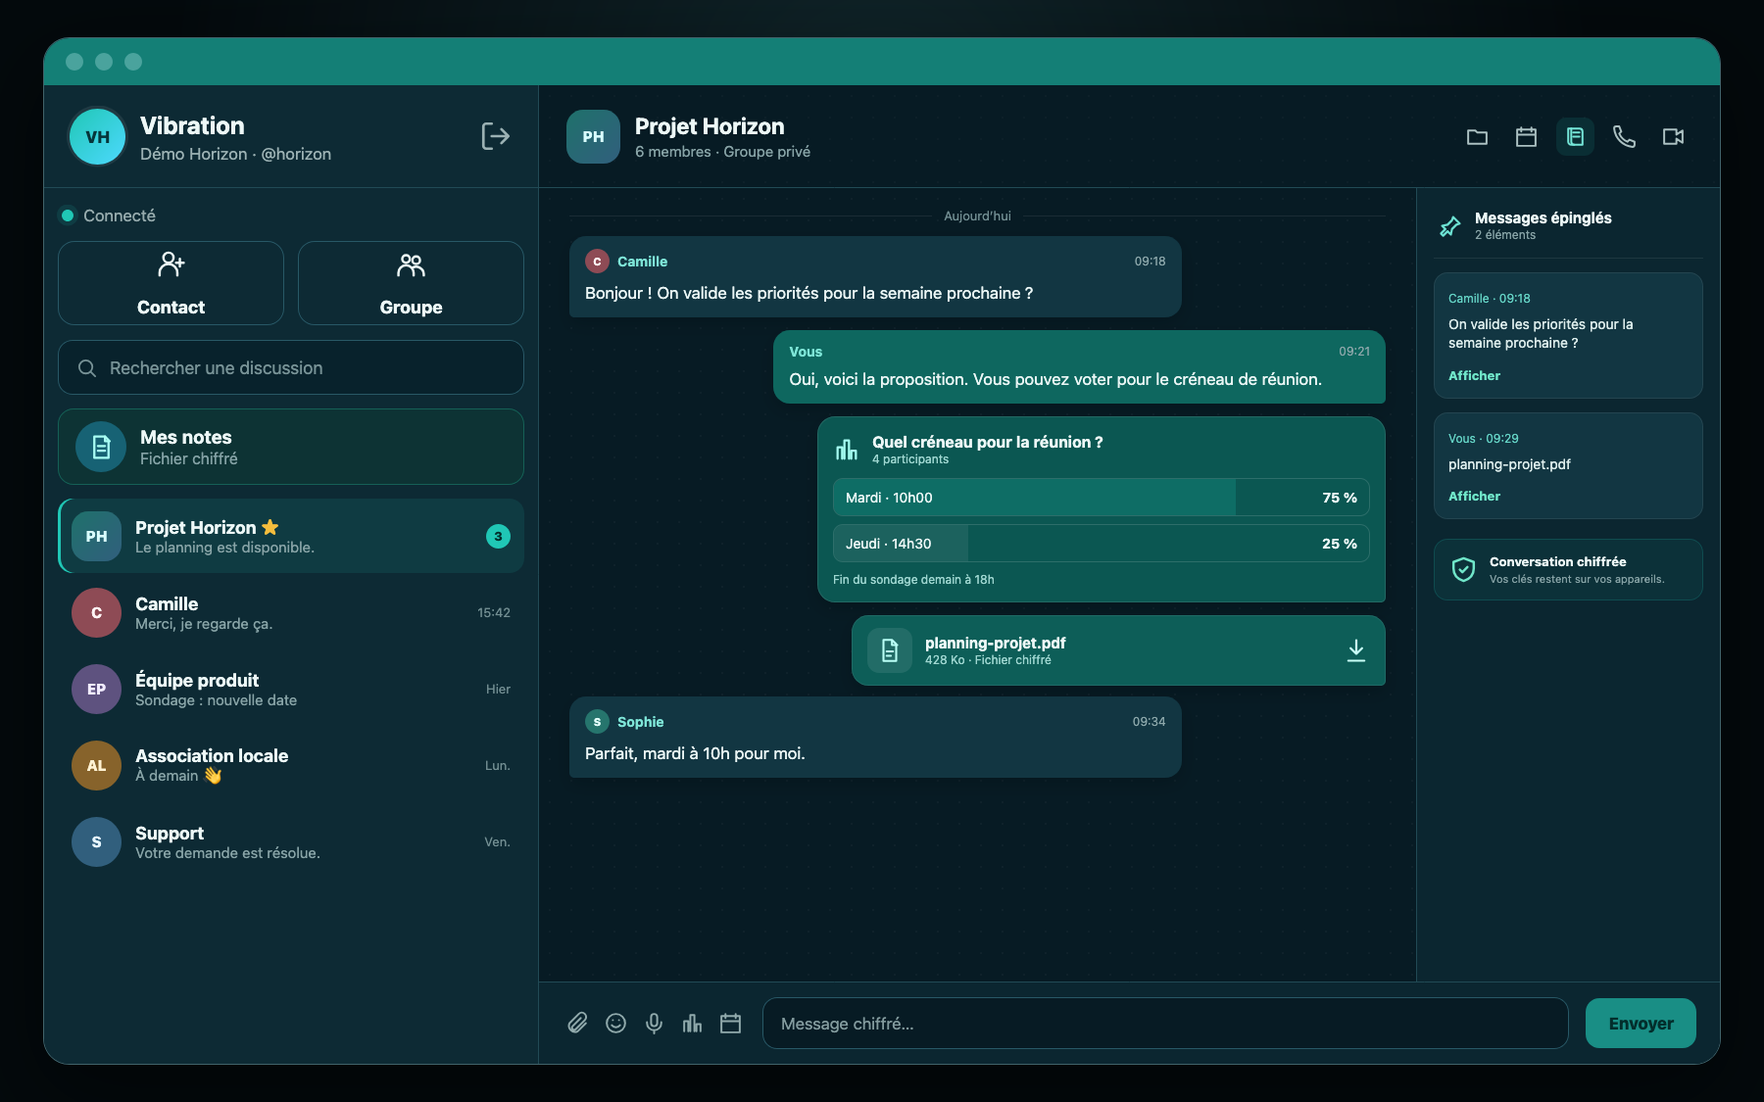
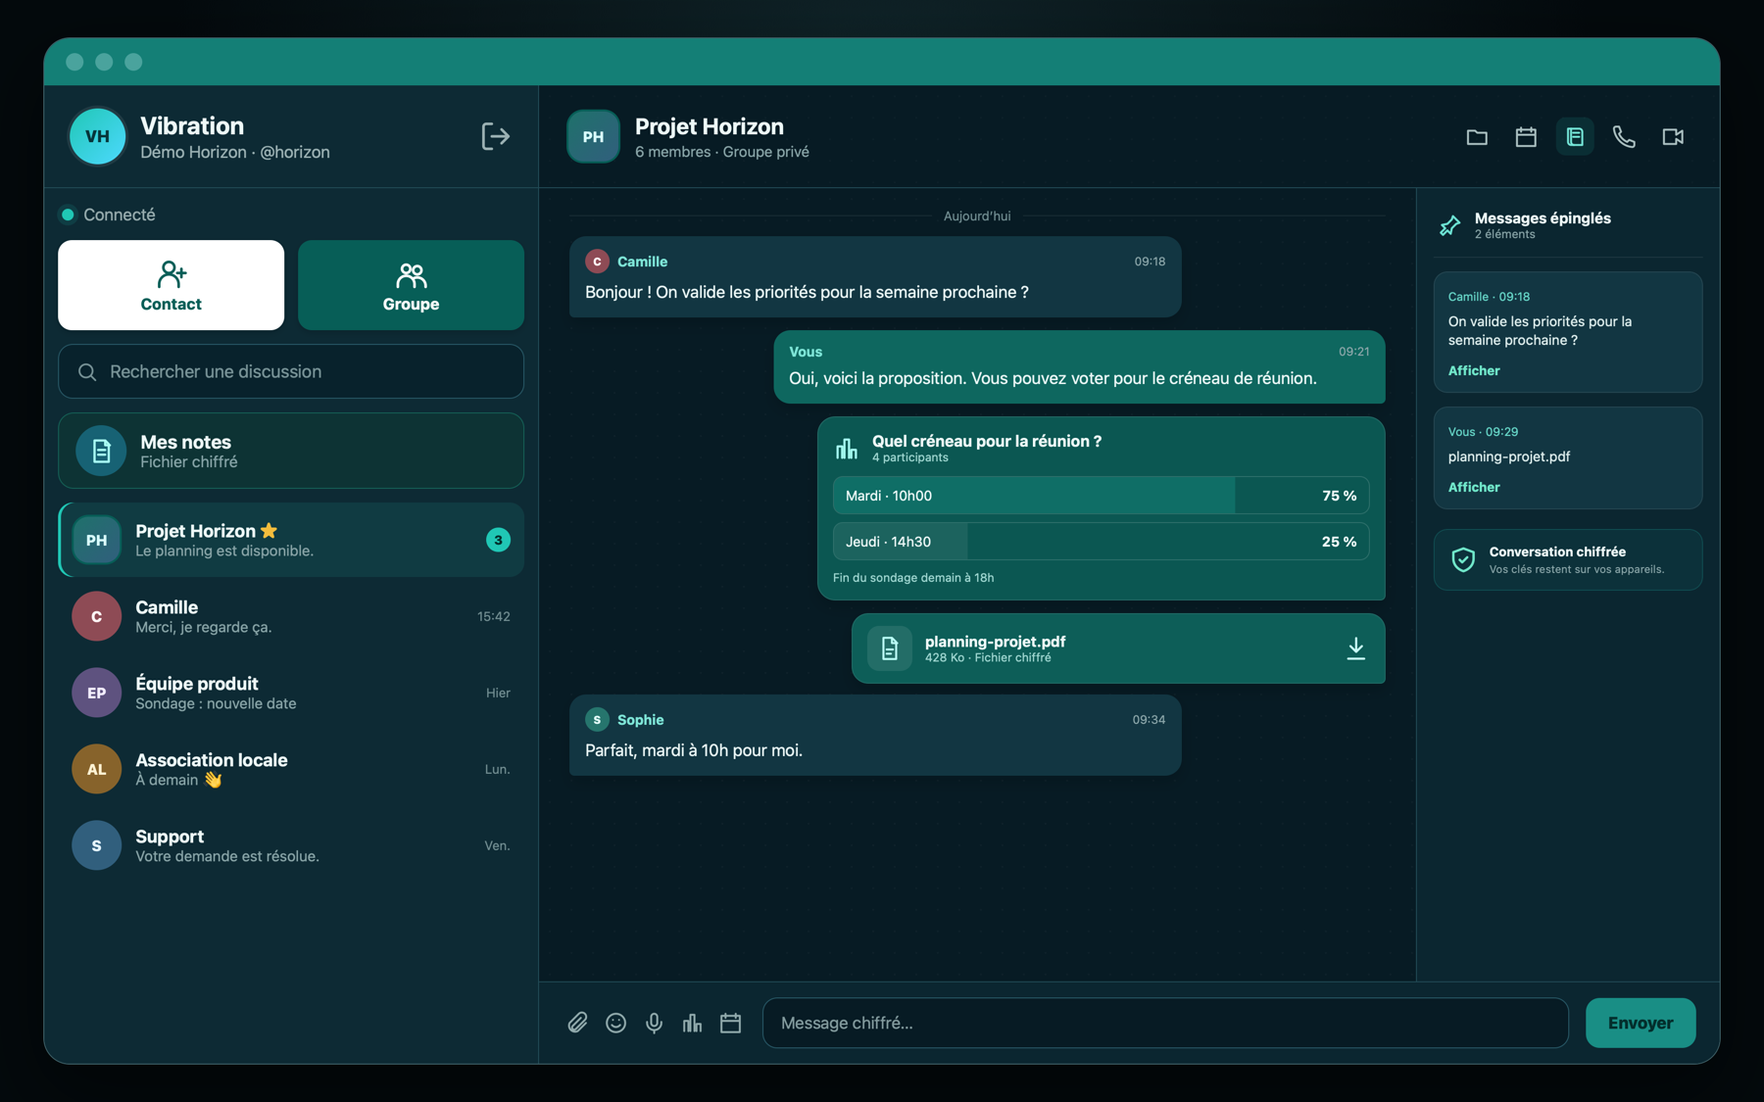
Publier Community 1.0.22

diff --git a/web/index.html b/web/index.html
@@ -6,7 +6,7 @@
   <meta name="apple-mobile-web-app-capable" content="yes">
   <meta name="apple-mobile-web-app-status-bar-style" content="black-translucent">
   <meta name="theme-color" content="#1b5260">
-  <meta name="vibration-build" content="message-link-green-v344">
+  <meta name="vibration-build" content="sidebar-actions-above-search-v356">
   <style>
     :root { --avatar-bg: #1b5260; --avatar-fg: #a9fff4; background-color: #1b5260; }
     html[data-theme="light"] { --avatar-bg: #c9e7e4; --avatar-fg: #075e57; background-color: #c9e7e4; }
@@ -21,7 +21,7 @@
   <link rel="manifest" href="/manifest.json?v=desktop-titlebar-v252">
   <link rel="icon" href="/icons/icon-192.png">
   <link rel="apple-touch-icon" href="/icons/icon-192.png">
-  <link rel="stylesheet" href="/css/style.css?v=message-link-green-v344">
+  <link rel="stylesheet" href="/css/style.css?v=sidebar-actions-above-search-v356">
 </head>
 <body>
   <div class="desktop-titlebar-drag-region" data-tauri-drag-region aria-hidden="true"></div>
@@ -47,18 +47,18 @@
         <svg class="sidebar-action-icon" viewBox="0 0 24 24" aria-hidden="true"><path d="M12 3 19 6v5.5c0 4.5-2.9 7.6-7 9.5-4.1-1.9-7-5-7-9.5V6Z"></path><path d="m9 12 2 2 4-4"></path></svg>
         <span class="admin-link-label">Administration</span>
       </a>
-      <div class="actions">
-        <button id="contact-button" class="outline" type="button">
-          <svg class="sidebar-action-icon" viewBox="0 0 24 24" aria-hidden="true"><circle cx="10" cy="8" r="3.5"></circle><path d="M3.5 20v-1.5a6.5 6.5 0 0 1 13 0V20M18 8v6M15 11h6"></path></svg>
-          <span>Contact</span>
-        </button>
-        <button id="group-button" class="outline" type="button">
-          <svg class="sidebar-action-icon" viewBox="0 0 24 24" aria-hidden="true"><circle cx="9" cy="8" r="3"></circle><circle cx="16.5" cy="9" r="2.5"></circle><path d="M3 20v-1.5A5.5 5.5 0 0 1 8.5 13h1A5.5 5.5 0 0 1 15 18.5V20M14 14.5a5 5 0 0 1 7 4.5v1"></path></svg>
-          <span>Groupe</span>
-        </button>
-      </div>
       <div id="conversation-list-loading" class="conversation-list-loading" role="status">Chargement des discussions…</div>
       <div id="conversation-lists" aria-busy="true" hidden>
+        <div class="actions" aria-label="Créer une discussion">
+          <button id="contact-button" class="outline" type="button">
+            <svg class="sidebar-action-icon" viewBox="0 0 24 24" aria-hidden="true"><circle cx="10" cy="8" r="3.5"></circle><path d="M3.5 20v-1.5a6.5 6.5 0 0 1 13 0V20M18 8v6M15 11h6"></path></svg>
+            <span>Contact</span>
+          </button>
+          <button id="group-button" class="outline" type="button">
+            <svg class="sidebar-action-icon" viewBox="0 0 24 24" aria-hidden="true"><circle cx="9" cy="8" r="3"></circle><circle cx="16.5" cy="9" r="2.5"></circle><path d="M3 20v-1.5A5.5 5.5 0 0 1 8.5 13h1A5.5 5.5 0 0 1 15 18.5V20M14 14.5a5 5 0 0 1 7 4.5v1"></path></svg>
+            <span>Groupe</span>
+          </button>
+        </div>
         <div class="conversation-search">
           <svg viewBox="0 0 24 24" aria-hidden="true"><circle cx="11" cy="11" r="7"></circle><path d="m16 16 5 5"></path></svg>
           <input id="conversation-search" type="search" autocomplete="off" autocapitalize="none" spellcheck="false"
@@ -402,6 +402,14 @@
       <label>Nom affiché<input id="profile-display-name" maxlength="80" required autocomplete="name"></label>
       <label>Description<textarea id="profile-description" rows="3" maxlength="280" placeholder="Quelques mots à propos de vous"></textarea></label>
       <label>Instance serveur<input id="profile-instance-url" type="url" required autocomplete="url"></label>
+      <section class="profile-password-section">
+        <h4 id="profile-password-title">Modifier le mot de passe</h4>
+        <fieldset class="profile-password" aria-labelledby="profile-password-title">
+          <label>Mot de passe actuel<input id="profile-current-password" type="password" autocomplete="current-password"><small>Requis pour modifier le nom d’utilisateur ou le mot de passe.</small></label>
+          <label>Nouveau mot de passe<input id="profile-new-password" type="password" minlength="8" maxlength="256" autocomplete="new-password"></label>
+          <label>Confirmer le nouveau mot de passe<input id="profile-confirm-password" type="password" minlength="8" maxlength="256" autocomplete="new-password"></label>
+        </fieldset>
+      </section>
       <section class="profile-discovery" aria-labelledby="profile-discovery-title">
         <h4 id="profile-discovery-title">Confidentialité du profil</h4>
         <label class="profile-visibility-toggle">
@@ -416,12 +424,6 @@
         </div>
         <small id="profile-discovery-status" aria-live="polite"></small>
       </section>
-      <fieldset class="profile-password">
-        <legend>Modifier le mot de passe</legend>
-        <label>Mot de passe actuel<input id="profile-current-password" type="password" autocomplete="current-password"><small>Requis pour modifier le nom d’utilisateur ou le mot de passe.</small></label>
-        <label>Nouveau mot de passe<input id="profile-new-password" type="password" minlength="8" maxlength="256" autocomplete="new-password"></label>
-        <label>Confirmer le nouveau mot de passe<input id="profile-confirm-password" type="password" minlength="8" maxlength="256" autocomplete="new-password"></label>
-      </fieldset>
       <p id="profile-error" class="error" role="alert"></p>
       <button id="profile-save" type="submit">Enregistrer le profil</button>
       <label class="profile-theme-label"><strong>Thème</strong><select id="profile-theme"><option value="auto">Automatique</option><option value="light">Clair</option><option value="dark">Sombre</option></select></label>
@@ -585,6 +587,6 @@
   <div id="toasts" aria-live="polite"></div>
   <script src="/vendor/hash-wasm/argon2.umd.min.js?v=identity-v2"></script>
   <script src="/vendor/jsqr/jsQR.js?v=qr-scanner-v296"></script>
-  <script type="module" src="/js/app.js?v=message-link-green-v344"></script>
+  <script type="module" src="/js/app.js?v=sidebar-actions-above-search-v356"></script>
 </body>
 </html>

diff --git a/web/js/app.js b/web/js/app.js
@@ -1,4 +1,4 @@
-import { api, clearSessionToken, getInstanceURL, isDesktopClient, normalizeInstanceURL, setInstanceURL } from "./api.js?v=message-link-green-v344";
+import { api, clearSessionToken, getInstanceURL, isDesktopClient, normalizeInstanceURL, setInstanceURL } from "./api.js?v=sidebar-actions-above-search-v356";
 import {
   base64ToBytes,
   bytesToBase64,
@@ -19,7 +19,7 @@ import {
   verifyMessagePayload,
   unwrapGroupKey,
   wrapGroupKey,
-} from "./crypto.js?v=message-link-green-v344";
+} from "./crypto.js?v=sidebar-actions-above-search-v356";
 import {
   forgetRememberedIdentity,
 	forgetTrustedDeviceCredential,
@@ -40,8 +40,8 @@ import {
   showLocalTestNotification,
   syncBrowserSubscription,
   testNotification,
-} from "./notifications.js?v=message-link-green-v344";
-import { ChatSocket } from "./websocket.js?v=message-link-green-v344";
+} from "./notifications.js?v=sidebar-actions-above-search-v356";
+import { ChatSocket } from "./websocket.js?v=sidebar-actions-above-search-v356";
 import { actionIcon, bindSwipeActions, formatMessageTime, frenchErrorMessage, materialFileIcon, renderMessage, setBusy, toast } from "./ui.js?v=message-links-v341";
 import { locale, t } from "./i18n.js?v=conversation-search-v326";
 import { runKeyedTask } from "./keyed-task-guard.js?v=ios17-pdf-v199";
@@ -71,7 +71,7 @@ import {
   sameCallIdentity,
   shouldOfferAfterAccept,
   shouldOfferInGroup,
-} from "./call-negotiation.js?v=message-link-green-v344";
+} from "./call-negotiation.js?v=sidebar-actions-above-search-v356";
 import { openConversationCache, sameMessageSnapshots } from "./conversation-cache.js?v=cache-v3";
 import { decodeQRImageData, sessionApprovalTokenFromQR } from "./qr-scanner.js?v=qr-scanner-v296";
 import {
@@ -100,7 +100,7 @@ const GLOBAL_FILES_PAGE_SIZE = 40;
 const GLOBAL_FILES_SCROLL_THRESHOLD_PX = 240;
 const GLOBAL_FILES_BACKGROUND_CONCURRENCY = 2;
 const WHITEBOARD_MESSAGE_TYPE = "whiteboard";
-const APP_BUILD = "message-link-green-v344";
+const APP_BUILD = "sidebar-actions-above-search-v356";
 const ADMIN_RETURN_HISTORY_KEY = "vibration.admin_return_history";
 const ADMIN_BOOTSTRAP_CACHE_KEY = "vibration.admin_bootstrap";
 const ADMIN_BOOTSTRAP_MAX_AGE_MS = 60 * 1000;
@@ -1081,7 +1081,16 @@ function bindUI() {
     event.preventDefault();
     document.querySelector("#profile-session-approve-code").click();
   });
-  document.querySelector("#conversation-info-close").onclick = () => elements.conversationInfoDialog.close();
+  document.querySelector("#conversation-info-close").onclick = (event) => {
+    const closedWithPointer = event.detail > 0;
+    elements.conversationInfoDialog.close();
+    if (!closedWithPointer) return;
+    requestAnimationFrame(() => {
+      if (document.activeElement === elements.chatAvatar || document.activeElement === elements.chatIdentity) {
+        document.activeElement.blur();
+      }
+    });
+  };
   elements.conversationInfoVerify.onclick = verifyCurrentConversationIdentity;
   elements.chatAvatar.onclick = () => {
     openCurrentConversationInfo().catch((error) => {
@@ -1459,6 +1468,7 @@ function renderMobileNavigationAvatar(display = null, conversation = null) {
   const showPersonalNote = Boolean(display && conversation?.is_personal);
   button.classList.toggle("has-conversation-avatar", Boolean(display));
   button.classList.toggle("personal-note-avatar", showPersonalNote);
+  button.classList.toggle("group-conversation-avatar", Boolean(display && conversation?.type === "group"));
   if (!display) {
     image.onerror = null;
     image.hidden = true;
@@ -1821,6 +1831,7 @@ async function openCurrentConversationInfo() {
   elements.conversationInfoMembersSection.hidden = !isGroup;
   elements.conversationInfoMembersCount.textContent = "0";
   elements.conversationInfoMembers.replaceChildren();
+  elements.conversationInfoAvatar.classList.toggle("group-conversation-avatar", isGroup);
   replaceAvatarContent(
     elements.conversationInfoAvatar,
     display.avatar,
@@ -1839,6 +1850,7 @@ function renderConversationHeader(conversation, display) {
   );
   elements.chatAvatar.hidden = false;
   elements.chatAvatar.classList.toggle("personal-note-avatar", Boolean(conversation.is_personal));
+  elements.chatAvatar.classList.toggle("group-conversation-avatar", conversation.type === "group");
   if (conversation.is_personal) {
     renderPersonalNoteIcon(elements.chatAvatar);
   } else {
@@ -3542,7 +3554,7 @@ async function renderConversations({ freshMembers = false } = {}) {
       callState?.incoming ? "call-incoming" : "",
     ].filter(Boolean).join(" ");
     const avatar = document.createElement("span");
-    avatar.className = "avatar";
+    avatar.className = conversation.type === "group" ? "avatar group-conversation-avatar" : "avatar";
     avatar.textContent = conversation.type === "group" ? "G" : "@";
     const copy = document.createElement("span");
     const titleRow = document.createElement("span");
@@ -3662,7 +3674,7 @@ function renderGroupInvitation(conversation, display = null) {
   row.className = "contact-request-row";
   row.dataset.conversationSearch = [display?.title, display?.description, t("Invitation de groupe")].filter(Boolean).join(" ");
   const avatar = document.createElement("span");
-  avatar.className = "avatar";
+  avatar.className = "avatar group-conversation-avatar";
   avatar.textContent = "G";
   const copy = document.createElement("span");
   const title = document.createElement("strong");

diff --git a/web/css/style.css b/web/css/style.css
@@ -11,6 +11,7 @@
   --shadow: 0 20px 55px rgb(0 0 0 / .28);
   --avatar-bg: #1b5260;
   --avatar-fg: #a9fff4;
+  --group-action: #075e57;
   --tauri-titlebar-height: 0px;
   color-scheme: dark;
   font-family: Inter, ui-sans-serif, system-ui, -apple-system, BlinkMacSystemFont, "Segoe UI", sans-serif;
@@ -188,9 +189,16 @@ html.ios-pwa-splash-positioned #startup-splash svg { visibility: visible; }
 .admin-link-label { overflow: hidden; text-overflow: ellipsis; white-space: nowrap; }
 #ws-dot { width: .55rem; height: .55rem; border-radius: 50%; background: #ef6464; box-shadow: 0 0 0 3px rgb(239 100 100 / .12); }
 #ws-dot.online { background: var(--accent); box-shadow: 0 0 0 3px rgb(32 199 181 / .12); }
-.actions { display: grid; grid-template-columns: minmax(0, 1fr) minmax(0, 1fr); gap: .6rem; padding: 0 .6rem .75rem; }
-.admin-link[hidden] + .actions { padding-top: .5rem; }
-.actions button { min-width: 0; min-height: 4.8rem; display: flex; flex-direction: column; align-items: center; justify-content: center; gap: .35rem; padding: .65rem .45rem; }
+.actions { display: grid; grid-template-columns: minmax(0, 1fr) minmax(0, 1fr); flex: 0 0 auto; gap: .6rem; padding: 0 .6rem .75rem; }
+.actions button { min-width: 0; min-height: 4.1rem; display: flex; flex-direction: column; align-items: center; justify-content: center; gap: .2rem; padding: .4rem .65rem; }
+.actions #contact-button,
+.actions #group-button {
+  border: 0;
+  box-shadow: 0 .16rem .45rem rgb(3 47 44 / .12);
+}
+.actions #contact-button { background: #ffffff; color: var(--group-action); }
+.actions #group-button { background: var(--group-action); color: #ffffff; }
+.actions .sidebar-action-icon { width: 1.7rem; height: 1.7rem; }
 .sidebar-action-icon { width: 1.7rem; height: 1.7rem; flex: 0 0 auto; fill: none; stroke: currentColor; stroke-width: 1.8; stroke-linecap: round; stroke-linejoin: round; }
 #conversation-lists { min-height: 0; display: flex; flex: 1; flex-direction: column; }
 .conversation-list-loading { display: grid; flex: 1; place-items: center; min-height: 0; padding: 2rem 1rem; color: var(--muted); text-align: center; }
@@ -430,7 +438,7 @@ html.ios-pwa-splash-positioned #startup-splash svg { visibility: visible; }
 .voice-draft-status { color: var(--muted); font-size: .82rem; white-space: nowrap; }
 .voice-draft audio { width: 100%; min-width: 0; height: 34px; }
 .voice-draft button { width: 2rem; height: 2rem; padding: 0; border-radius: 50%; background: transparent; color: var(--text); font-size: 1.2rem; }
-#message-input { min-height: 44px; max-height: 140px; resize: vertical; }
+#message-input { height: 44px; min-height: 44px; max-height: 140px; resize: vertical; }
 .composer-tools { position: relative; display: flex; gap: .25rem; }
 .file-picker { display: grid; place-items: center; width: 44px; height: 44px; cursor: pointer; font-size: 1.35rem; }
 .composer-tool-button { width: 44px; height: 44px; padding: 0; background: transparent; color: var(--text); font-size: 1.35rem; }
@@ -612,7 +620,9 @@ dialog h3, dialog h4 { line-height: 1.25; }
 .picker-row.check input[type="checkbox"],
 .group-member-check input[type="checkbox"] { appearance: auto; width: 1.25rem; height: 1.25rem; margin: 0; padding: 0; accent-color: var(--accent); cursor: pointer; }
 fieldset { min-width: 0; border: 1px solid var(--line); border-radius: .8rem; }
-.profile-password { display: grid; gap: .8rem; }
+.profile-password-section { display: grid; gap: .4rem; }
+.profile-password-section h4 { margin: 0; color: var(--muted); font-size: .9rem; font-weight: 400; }
+.profile-password { display: grid; gap: .8rem; margin: 0; padding: .8rem; }
 .profile-discovery { display: grid; gap: .65rem; padding: .8rem; border: 1px solid rgb(32 199 181 / .24); border-radius: .8rem; background: rgb(32 199 181 / .06); }
 .profile-discovery h4 { margin: 0; }
 .profile-visibility-toggle { display: grid; grid-template-columns: auto minmax(0, 1fr); align-items: start; gap: .7rem; cursor: pointer; }
@@ -636,6 +646,10 @@ fieldset { min-width: 0; border: 1px solid var(--line); border-radius: .8rem; }
 .conversation-info-hero strong { overflow-wrap: anywhere; font-size: 1.1rem; }
 .conversation-info-avatar { display: grid; place-items: center; width: 5.5rem; height: 5.5rem; overflow: hidden; border: 2px solid var(--line); border-radius: 50%; background: var(--avatar-bg); color: var(--avatar-fg); font-size: 1.7rem; font-weight: 800; }
 .conversation-info-avatar img { display: block; width: 100%; height: 100%; border-radius: inherit; object-fit: cover; }
+.avatar.group-conversation-avatar,
+.chat-conversation-avatar.group-conversation-avatar,
+.brand-logo-button.has-conversation-avatar.group-conversation-avatar,
+.conversation-info-avatar.group-conversation-avatar { border: 2px solid var(--group-action); }
 .conversation-info-details { display: grid; gap: 0; margin: 0; overflow: hidden; border: 1px solid var(--line); border-radius: .9rem; }
 .conversation-info-details > div { display: grid; grid-template-columns: minmax(8rem, .7fr) minmax(0, 1.3fr); gap: .8rem; padding: .8rem .9rem; }
 .conversation-info-details > div + div { border-top: 1px solid var(--line); }

diff --git a/web/sw.js b/web/sw.js
@@ -1,8 +1,8 @@
-const CACHE = "chat-pwa-go-v344";
+const CACHE = "chat-pwa-go-v356";
 const SHELL = [
-  "/", "/index.html", "/login.html", "/link-device.html", "/share.html", "/css/style.css?v=message-link-green-v344",
-  "/js/app.js?v=message-link-green-v344", "/js/call-negotiation.js?v=message-link-green-v344", "/js/api.js?v=message-link-green-v344", "/js/crypto.js?v=message-link-green-v344", "/js/websocket.js?v=message-link-green-v344", "/js/keyed-task-guard.js?v=ios17-pdf-v199", "/js/theme.js?v=calendar-toolbar-grid-v311",
-  "/js/notifications.js?v=message-link-green-v344", "/js/device-vault.js?v=trusted-device-v300", "/js/identity-trust.js?v=passphrase-strength-v276", "/js/i18n.js?v=conversation-search-v326", "/js/ui.js?v=message-links-v341", "/js/message-links.js?v=message-links-v341", "/js/share.js?v=conversation-search-v326", "/js/login.js?v=calendar-toolbar-grid-v311", "/js/link-device.js?v=ios-resume-v297", "/js/qr-scanner.js?v=qr-scanner-v296", "/manifest.json?v=desktop-titlebar-v252",
+  "/", "/index.html", "/login.html", "/link-device.html", "/share.html", "/css/style.css?v=sidebar-actions-above-search-v356",
+  "/js/app.js?v=sidebar-actions-above-search-v356", "/js/call-negotiation.js?v=sidebar-actions-above-search-v356", "/js/api.js?v=sidebar-actions-above-search-v356", "/js/crypto.js?v=sidebar-actions-above-search-v356", "/js/websocket.js?v=sidebar-actions-above-search-v356", "/js/keyed-task-guard.js?v=ios17-pdf-v199", "/js/theme.js?v=calendar-toolbar-grid-v311",
+  "/js/notifications.js?v=sidebar-actions-above-search-v356", "/js/device-vault.js?v=trusted-device-v300", "/js/identity-trust.js?v=passphrase-strength-v276", "/js/i18n.js?v=conversation-search-v326", "/js/ui.js?v=message-links-v341", "/js/message-links.js?v=message-links-v341", "/js/share.js?v=conversation-search-v326", "/js/login.js?v=calendar-toolbar-grid-v311", "/js/link-device.js?v=ios-resume-v297", "/js/qr-scanner.js?v=qr-scanner-v296", "/manifest.json?v=desktop-titlebar-v252",
   "/vendor/hash-wasm/argon2.umd.min.js?v=identity-v2",
   "/vendor/jsqr/jsQR.js?v=qr-scanner-v296",
   "/js/pdf-preview-compat.js?v=ios17-pdf-v199",

diff --git a/web/js/notifications.js b/web/js/notifications.js
@@ -25,7 +25,7 @@ function browserPushSupported() {
 export async function registerServiceWorker() {
   if (!("serviceWorker" in navigator)) return null;
   if (!["http:", "https:"].includes(location.protocol)) return null;
-  const registration = await navigator.serviceWorker.register("/sw.js?v=message-link-green-v344");
+  const registration = await navigator.serviceWorker.register("/sw.js?v=sidebar-actions-above-search-v356");
   // Demande immédiatement au navigateur de vérifier le nouveau shell PWA.
   // Sans cela, certains clients conservent plusieurs heures l'ancien app.js,
   // où le bouton de sondage n'est pas encore câblé.

diff --git a/web/js/link-device.js b/web/js/link-device.js
@@ -1,4 +1,4 @@
-import { api } from "./api.js?v=message-link-green-v344";
+import { api } from "./api.js?v=sidebar-actions-above-search-v356";
 import { locale, t } from "./i18n.js?v=conversation-search-v326";
 import { frenchErrorMessage, setBusy } from "./ui.js?v=message-links-v341";
 

diff --git a/web/js/websocket.js b/web/js/websocket.js
@@ -1,4 +1,4 @@
-import { websocketProtocols, websocketURL } from "./api.js?v=message-link-green-v344";
+import { websocketProtocols, websocketURL } from "./api.js?v=sidebar-actions-above-search-v356";
 
 export class ChatSocket extends EventTarget {
   constructor() {

diff --git a/README.md b/README.md
@@ -6,7 +6,7 @@ Application de messagerie web installable, responsive et chiffrée côté naviga
   <img src="docs/interface-community.png" alt="Interface fictive de Vibration Community avec discussions de démonstration, sondage, fichier et messages épinglés" width="900">
 </p>
 
-<p align="center"><strong>Vibration Community 1.0.21</strong> · Messagerie chiffrée auto-hébergeable · Web, mobile et PWA</p>
+<p align="center"><strong>Vibration Community 1.0.22</strong> · Messagerie chiffrée auto-hébergeable · Web, mobile et PWA</p>
 
 ## Philosophie
 
@@ -102,6 +102,14 @@ L’édition Enterprise reprend toutes les fonctionnalités de Community et ajou
 Le périmètre des appels et groupes fédérés est détaillé dans [Community et Enterprise](COMMUNITY_VS_ENTERPRISE.md). L’offre Enterprise est présentée sur [vibration-shop.appbox.fr](https://vibration-shop.appbox.fr).
 
 ## Nouveautés
+
+### Community 1.0.22
+
+- **Création de discussions plus lisible** : les boutons « Contact » et « Groupe » sont placés au-dessus de la recherche, avec leurs grandes icônes et des couleurs distinctes blanc/vert et vert/blanc.
+- **Groupes mieux identifiables** : l’avatar d’une discussion de groupe reprend désormais la bordure verte du bouton « Groupe » dans la liste, l’en-tête et la fiche d’informations.
+- **Navigation plus propre** : la fermeture des informations d’un contact ou d’un groupe ne laisse plus son nom et sa description visuellement sélectionnés.
+- **Profil réorganisé** : « Modifier le mot de passe » apparaît avant « Confidentialité du profil », avec un intitulé extérieur au cadre cohérent avec les autres champs.
+- **Cache PWA v356** : les styles et scripts de cette version sont renouvelés ensemble pour garantir l’affichage immédiat de la nouvelle interface.
 
 ### Community 1.0.21
 
